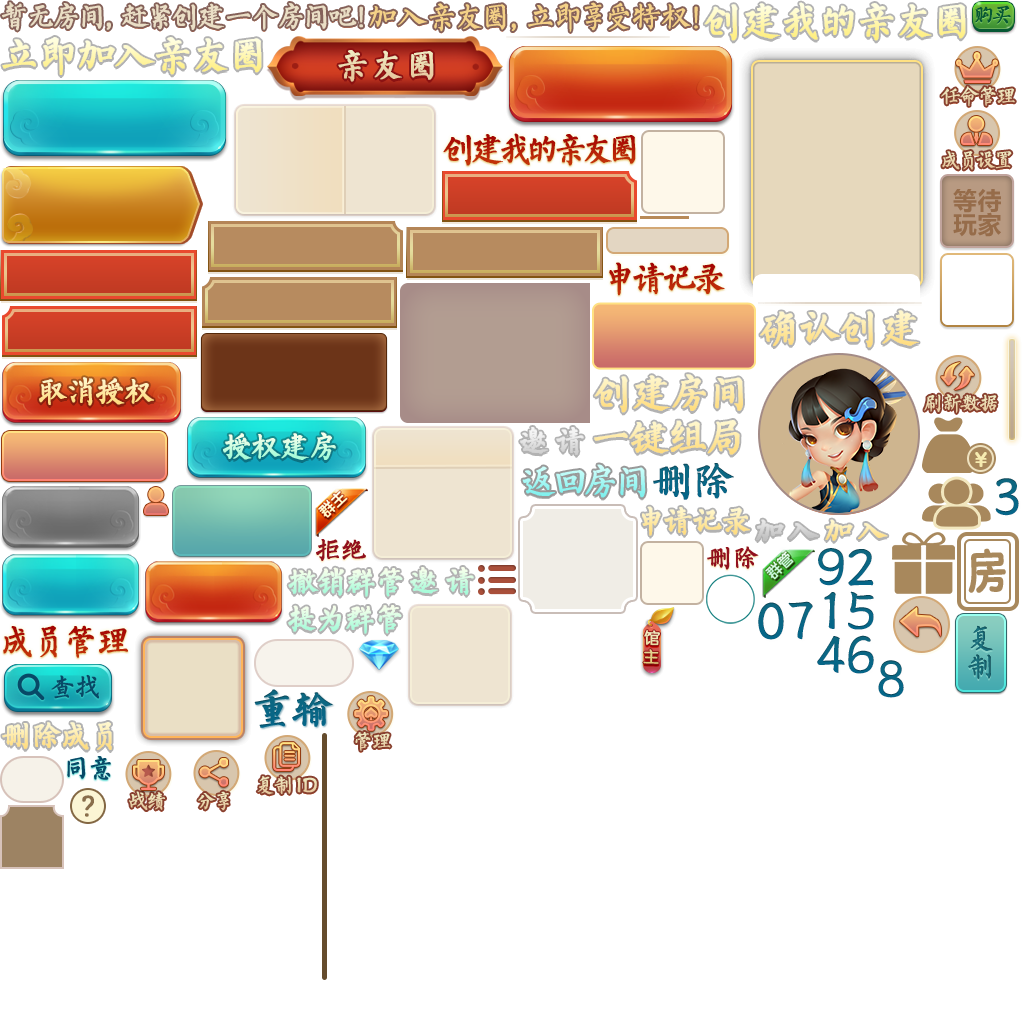
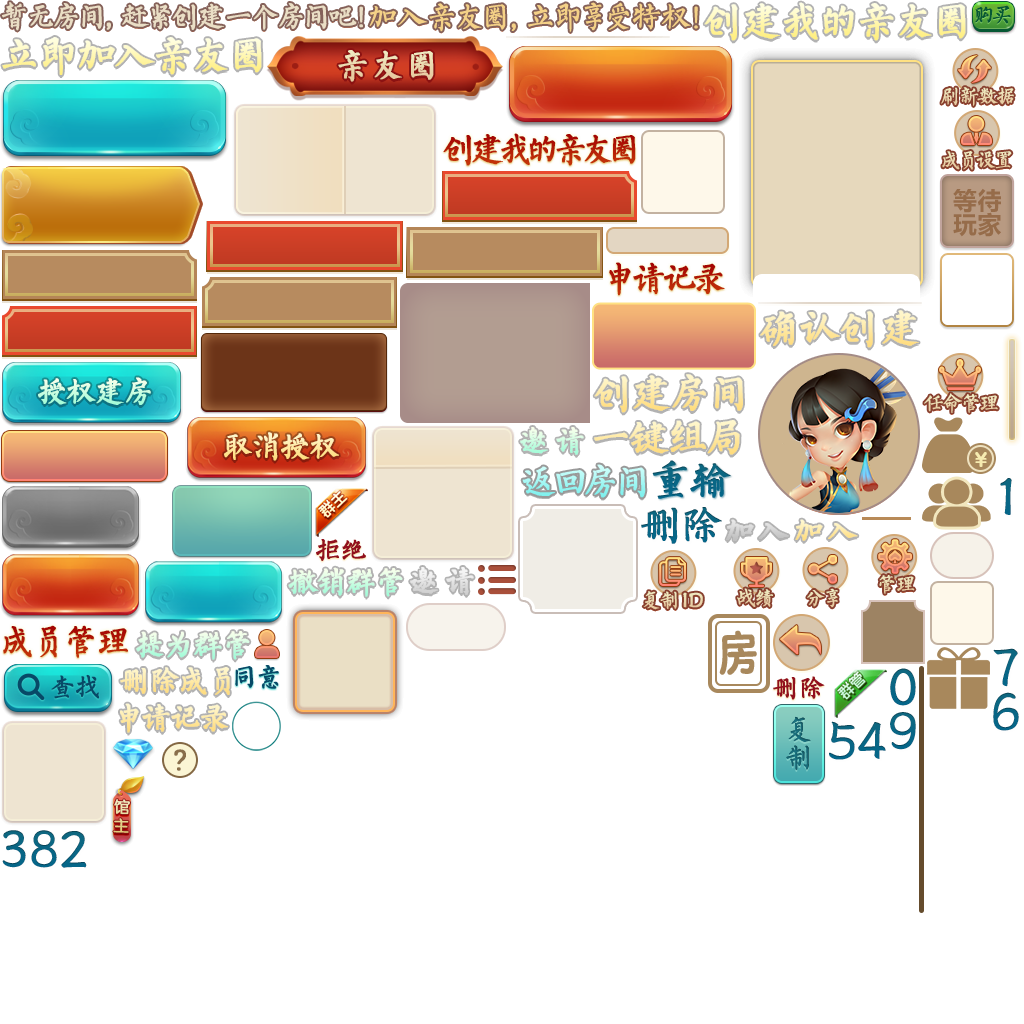
view

diff --git a/assets/Script/modules/lobby/views/club/ClubView.ts b/assets/Script/modules/lobby/views/club/ClubView.ts
@@ -51,9 +51,6 @@ export class ClubView extends cc.Component {
     // 大厅模块
     private lobbyModule: LobbyModuleInterface;
 
-    // 保存此按钮，便于移除与增加
-    private appointManagerBtn: fgui.GObject;
-
     /**
      * 选择筛选的房间类型
      * @param selectRoomType RoomType
@@ -203,27 +200,24 @@ export class ClubView extends cc.Component {
         const buyBtn = this.view.getChild("buyBtn");
         buyBtn.onClick(this.onBuyBtnClick, this);
 
-        const operationBtnList = this.view.getChild("operationBtn").asList;
-
         //复制ID按钮
-        const copyIdBtn = operationBtnList.getChildAt(0).asButton;
+        const copyIdBtn = this.view.getChild("copyIdBtn");
         copyIdBtn.onClick(this.onCopyIdBtnClick, this);
 
         //分享按钮
-        const shareBtn = operationBtnList.getChildAt(1).asButton;
+        const shareBtn = this.view.getChild("shareBtn");
         shareBtn.onClick(this.onShareBtnClick, this);
 
         // 任命管理按钮
-        const appointManagerBtn = operationBtnList.getChildAt(2).asButton;
-        this.appointManagerBtn = appointManagerBtn;
-        this.appointManagerBtn.onClick(this.onAppointManagerBtnClick, this);
+        const appointManagerBtn = this.view.getChild("appointManagerBtn");
+        appointManagerBtn.onClick(this.onAppointManagerBtnClick, this);
 
         // 成员管理
-        const memberSettingBtn = operationBtnList.getChildAt(3).asButton;
+        const memberSettingBtn = this.view.getChild("memberSettingBtn");
         memberSettingBtn.onClick(this.onMemberSettingBtnClick, this);
 
         // 管理
-        const managerBtn = operationBtnList.getChildAt(4).asButton;
+        const managerBtn = this.view.getChild("managerBtn");
         managerBtn.onClick(this.onManagerBtnClick, this);
 
         // 非茶馆页面点击事件
@@ -395,23 +389,15 @@ export class ClubView extends cc.Component {
     }
 
     private setOperationBtnVisible(isManager: boolean): void {
-
-        const operationBtnList = this.view.getChild("operationBtn").asList;
         // 任命管理按钮
-        const appointManagerBtn = this.appointManagerBtn;
+        const isManagerController = this.view.getController("isManager");
 
-        if (isManager) {
-            if (operationBtnList.numChildren === 4) {
-                operationBtnList.addChildAt(appointManagerBtn, 2);
-            }
+        if (isManager === false) {
+            isManagerController.selectedIndex = 0;
         } else {
-            if (operationBtnList.numChildren === 5) {
-                operationBtnList.removeChild(appointManagerBtn);
-            }
-
+            isManagerController.selectedIndex = 1;
         }
     }
-
     /**
      *  刷新参观房间
      * @param index 索引

diff --git a/assets/Script/modules/lobby/views/club/memberManager/MemberManagerView.ts b/assets/Script/modules/lobby/views/club/memberManager/MemberManagerView.ts
@@ -29,14 +29,14 @@ export class MemberManagerView extends cc.Component {
     private applyListBtn: fgui.GButton;
     private deleteMemberBtn: fgui.GButton;
 
-    public getEventTarget(): cc.EventTarget {
-        return this.eventTarget;
-    }
     public setClubInfo(clubInfo: proto.club.IMsgClubInfo): void {
         this.clubInfo = clubInfo;
 
+        this.updateUIByClubManager();
+
         //拉取成员
         this.loadMember();
+        this.win.show();
 
     }
     protected onLoad(): void {
@@ -51,7 +51,6 @@ export class MemberManagerView extends cc.Component {
         win.modal = true;
 
         this.win = win;
-        this.win.show();
 
         this.initView();
     }
@@ -61,6 +60,23 @@ export class MemberManagerView extends cc.Component {
         this.eventTarget.emit("destroy");
         this.win.hide();
         this.win.dispose();
+    }
+
+    private updateUIByClubManager(): void {
+
+        const isManager = this.isManager();
+        this.setOperationBtnVisible(isManager);
+    }
+
+    private setOperationBtnVisible(isManager: boolean): void {
+
+        const isManagerController = this.view.getController("isManager");
+
+        if (isManager === false) {
+            isManagerController.selectedIndex = 0;
+        } else {
+            isManagerController.selectedIndex = 1;
+        }
     }
 
     private onCloseClick(): void {
@@ -128,13 +144,23 @@ export class MemberManagerView extends cc.Component {
             owner.visible = member.userID === this.clubInfo.creatorUserID;
         }
 
-        obj.offClick(undefined, undefined);
+        const isManager = this.isManager();
 
-        obj.onClick(() => {
-            this.showMemberOperationDialog(member);
-            // tslint:disable-next-line:align
-        }, this);
+        if (isManager) {
+            obj.offClick(undefined, undefined);
 
+            obj.onClick(() => {
+                this.showMemberOperationDialog(member);
+                // tslint:disable-next-line:align
+            }, this);
+        }
+
+    }
+    private isManager(): boolean {
+        const userId = DataStore.getString("userID", "");
+        const clubOwnerId = this.clubInfo.creatorUserID;
+
+        return userId === clubOwnerId ? true : false;
     }
     /**
      * 渲染删除成员列表
@@ -181,7 +207,6 @@ export class MemberManagerView extends cc.Component {
             event = this.events[index];
         }
 
-        //const icon = obj.asCom.getChild("icon");
         const time = obj.asCom.getChild("time");
         const name = obj.asCom.getChild("name");
         const rejectBtn = obj.asCom.getChild("rejectBtn").asButton;

diff --git a/assets/Script/modules/lobby/views/club/settingPopup/SettingPopupView.ts b/assets/Script/modules/lobby/views/club/settingPopup/SettingPopupView.ts
@@ -52,9 +52,6 @@ export class SettingPopupView extends cc.Component {
 
     private initView(): void {
         //
-
-        const bg = this.view.getChild("bg").asImage;
-
         const managerCom = this.view.getChild("managerCom").asCom;
         const modifyNameItem = managerCom.getChild("modify").asButton;
         const disbandItem = managerCom.getChild("disband").asButton;
@@ -70,14 +67,14 @@ export class SettingPopupView extends cc.Component {
         const clubOwnerId = this.clubInfo.creatorUserID;
         const isManager = userId === clubOwnerId ? true : false;
 
-        if (isManager === false) {
-            //
-            managerCom.visible = false;
-            bg.height = 91;
-            quitClub.setPosition(8, 19);
-            this.view.setSize(172, 94);
-        }
+        const isManagerController = this.view.getController("isManager");
 
+        if (isManager === false) {
+            isManagerController.selectedIndex = 0;
+            this.view.setSize(172, 94);
+        } else {
+            isManagerController.selectedIndex = 1;
+        }
     }
 
     private onModifyClubNameClick(): void {
